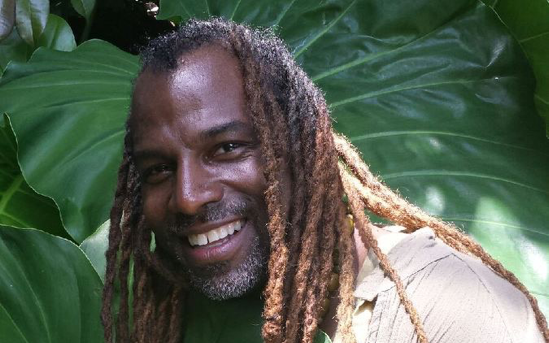
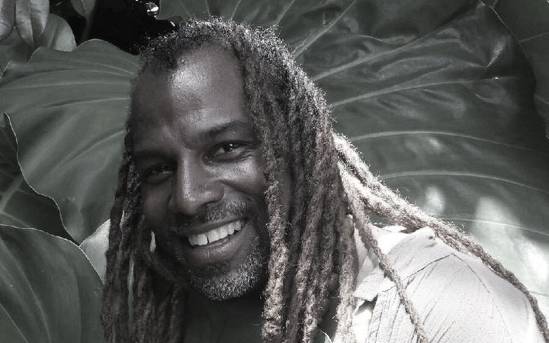
changed some photos, added slightly more description

diff --git a/index.html b/index.html
@@ -130,12 +130,14 @@
 				<div class="section-title">
 				<h1 id="darktitle">Events</h1>
 				</div>
+
+				<p id="darktitle">Click the photos below to see more info about each event.</p>
 		
 		
 			<ul class="grid cs-style-3">
 	        	<div class="col-md-4 col-sm-6">
 					<figure>
-						<img src="grat.png" alt="img04">
+						<img src="byland.png" alt="img04">
 						<figcaption>
 							<a href="https://www.eventbrite.com/e/fifty-shades-of-gray-the-shade-of-gratitude-tickets-22637321839">June 24:</br>The Shade of Gratitude</a>
 						</figcaption>
@@ -171,6 +173,14 @@
 						<img src="fireworks.png" alt="img03">
 						<figcaption>
 							<a href="https://www.eventbrite.com/e/fifty-shades-of-gray-rooftop-favorite-hat-celebration-tickets-24548655690">July 4:</br><span id="small_text">Rooftop "Favorite Hat" Celebration</span></a>
+						</figcaption>
+					</figure>
+				</div>
+				<div class="col-md-4 col-sm-6">
+					<figure>
+						<img src="Filler.jpeg" alt="img03">
+						<figcaption>
+							<a href="">No event 6</a>
 						</figcaption>
 					</figure>
 				</div>
@@ -224,7 +234,7 @@
 	    		<div class="section-title">
 				<h1 id="darktitle">Journal</h1>
 				</div>
-				<p id="darktitle">If you're interested in purchasing an ad in the birthday journal souvenir, please click <a href="JournalAdForm.pdf">here</a> to download a form.</p>
+				<p id="darktitle">If you're interested in purchasing an ad in the birthday journal souvenir, please click <a href="JournalAdForm.pdf" download="JournalAdForm">here</a> to download a form.</p>
 	    	</div>
 	    </div>
 
